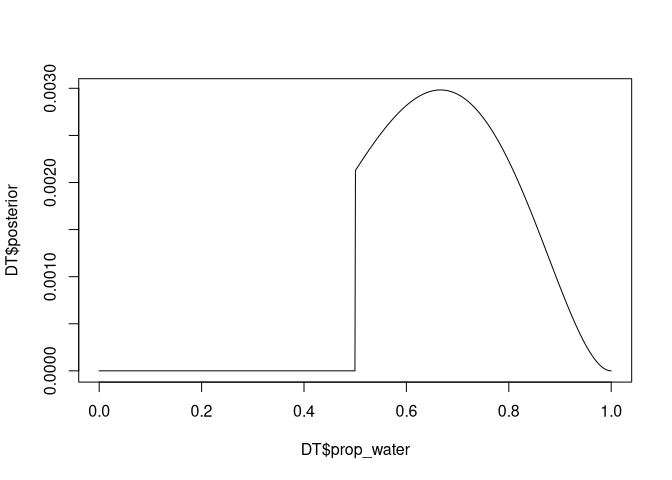
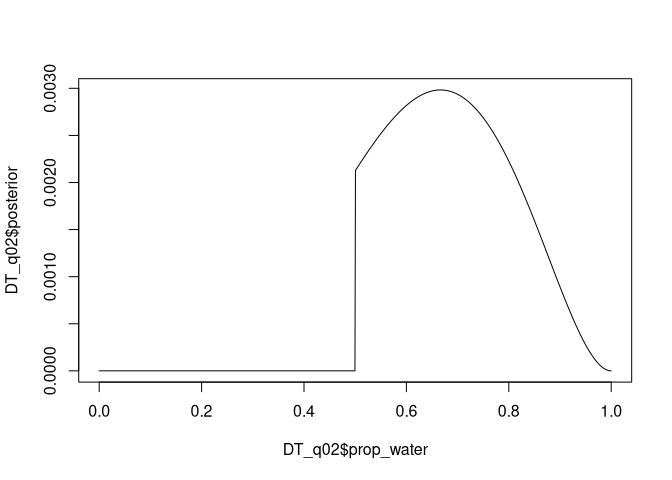
q3

Changed region(s): [[0.4062, 0.9062, 0.625, 0.9688], [0.0, 0.3438, 0.0312, 0.625]]

diff --git a/homework/01-homework.md b/homework/01-homework.md
@@ -30,19 +30,19 @@ land <- 11
 data_prob <- dbinom(water, water + land, prob = prior_grid)
 
 # Wrap as DT
-DT <- data.table(prop_water = prior_grid,
-                 prior_water = prior_prob,
-                 prob_water = data_prob)
+DT_q01 <- data.table(prop_water = prior_grid,
+                     prior_water = prior_prob,
+                     prob_water = data_prob)
 
 # Calculate the posterior numerator by multiplying prior and data probability
-DT[, posterior_num := prior_water * prob_water]
+DT_q01[, posterior_num := prior_water * prob_water]
 
 # Standardize by sum of posterior numerator
-DT[, posterior := posterior_num / sum(posterior_num)]
+DT_q01[, posterior := posterior_num / sum(posterior_num)]
 
 
 # Plot -------------------------------------------------------------------------
-plot(DT$prop_water, DT$posterior, type = 'l')
+plot(DT_q01$prop_water, DT_q01$posterior, type = 'l')
 ```
 
 ![](01-homework_files/figure-gfm/w01_q01-1.png)<!-- -->
@@ -72,19 +72,106 @@ land <- 2
 data_prob <- dbinom(water, water + land, prob = prior_grid)
 
 # Wrap as DT
-DT <- data.table(prop_water = prior_grid,
-                 prior_water = prior_prob,
-                 prob_water = data_prob)
+DT_q02 <- data.table(prop_water = prior_grid,
+                     prior_water = prior_prob,
+                     prob_water = data_prob)
 
 # Calculate the posterior numerator by multiplying prior and data probability
-DT[, posterior_num := prior_water * prob_water]
+DT_q02[, posterior_num := prior_water * prob_water]
 
 # Standardize by sum of posterior numerator
-DT[, posterior := posterior_num / sum(posterior_num)]
+DT_q02[, posterior := posterior_num / sum(posterior_num)]
 
 
 # Plot -------------------------------------------------------------------------
-plot(DT$prop_water, DT$posterior, type = 'l')
+plot(DT_q02$prop_water, DT_q02$posterior, type = 'l')
 ```
 
 ![](01-homework_files/figure-gfm/w01_q02-1.png)<!-- -->
+
+## Question 3
+
+> For the posterior distribution from 2, compute 89% percentile and HPDI
+> intervals. Compare the widths of these intervals. Which is wider? Why?
+> If you had only the information in the interval, what might you
+> misunderstand about the shape of the posterior distribution?
+
+``` r
+# Packages ---------------------------------------------------------------------
+library(rethinking)
+```
+
+    ## Loading required package: rstan
+
+    ## Loading required package: StanHeaders
+
+    ## Loading required package: ggplot2
+
+    ## rstan (Version 2.21.2, GitRev: 2e1f913d3ca3)
+
+    ## For execution on a local, multicore CPU with excess RAM we recommend calling
+    ## options(mc.cores = parallel::detectCores()).
+    ## To avoid recompilation of unchanged Stan programs, we recommend calling
+    ## rstan_options(auto_write = TRUE)
+
+    ## Loading required package: parallel
+
+    ## rethinking (Version 2.13)
+
+    ## 
+    ## Attaching package: 'rethinking'
+
+    ## The following object is masked from 'package:stats':
+    ## 
+    ##     rstudent
+
+``` r
+library(ggplot2)
+
+
+# Samples ----------------------------------------------------------------------
+# Sample from posterior
+samples <- DT_q02[, sample(prop_water, size = gridsize, prob = posterior, replace = TRUE)]
+mean(samples)
+```
+
+    ## [1] 0.6899109
+
+``` r
+PI(samples, 0.89)
+```
+
+    ##        5%       94% 
+    ## 0.5195195 0.8748749
+
+``` r
+HPDI(samples, 0.89)
+```
+
+    ##     |0.89     0.89| 
+    ## 0.5005005 0.8468468
+
+``` r
+DT_q03 <- data.table(rbind(t(PI(samples, 0.89)), t(HPDI(samples, 0.89))), c('PI', 'HDPI'))
+setnames(DT_q03, c('low', 'high', 'type'))
+
+
+# Plot -------------------------------------------------------------------------
+ggplot() +
+  geom_line(aes(prop_water, posterior), data = DT_q02) +
+  geom_linerange(aes(xmin = low, xmax = high, y = 0.0033, color = 'PI'), 
+                 size = 3, data = DT_q03[type == 'PI']) +
+  geom_linerange(aes(xmin = low, xmax = high, y = 0.0035, color = 'HDPI'), 
+                 size = 3, data = DT_q03[type == 'HDPI']) +
+  scale_color_manual(values = list('PI' = 'green', 'HDPI' = 'purple'),
+                     name = 'Interval type')
+```
+
+![](01-homework_files/figure-gfm/w01_q03-1.png)<!-- -->
+
+-   PI: percentile intervals
+-   HDPI: highest posterior density interval
+
+Percentile intervals assign equal probability mass to each tail whereas
+highest posterior density intervals return the interval with the highest
+posterior probability.
